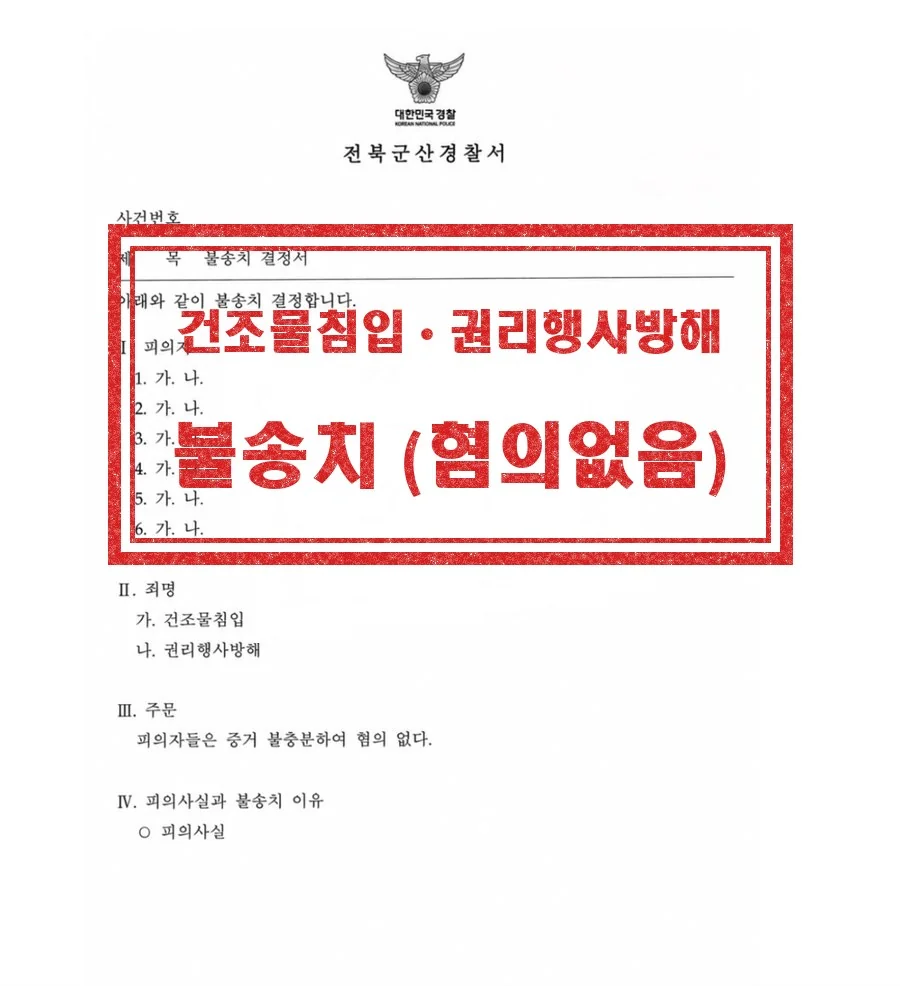
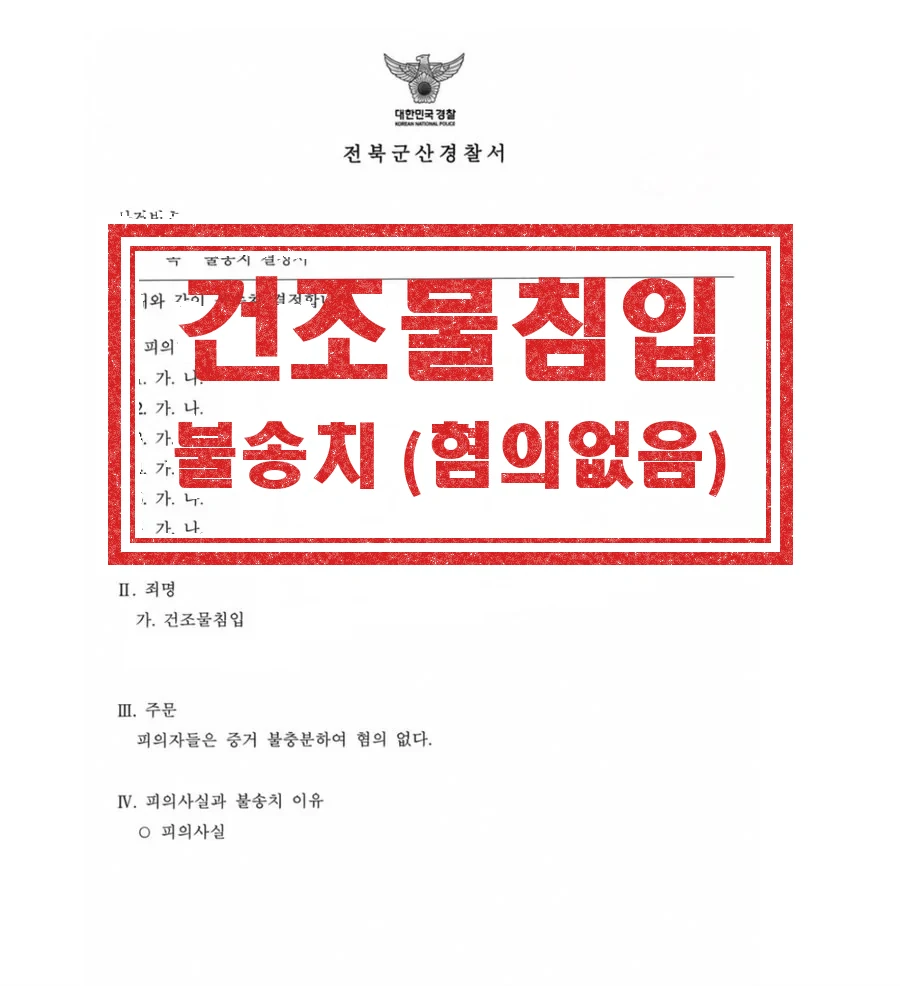
성공사례 case-01을 건조물침입·권리행사방해로 나눔(case-01 건조물침입, case-28 권리행사방해), 각 결정서에서 다른 죄명 가림
Claude-Session: https://claude.ai/code/session_019BpyvRfw1kgAhxY1Ym6REe

Changed region(s): [[0.1867, 0.2434, 0.8089, 0.3955], [0.1244, 0.213, 0.2178, 0.3347], [0.1556, 0.6389, 0.3111, 0.6694]]

diff --git a/results.html b/results.html
@@ -142,14 +142,15 @@
 
         <article class="case" id="case-01" data-cat="criminal">
           <a class="case__fig" href="images/case-01.webp" target="_blank" rel="noopener">
-            <img src="images/case-01-thumb.webp" alt="전북군산경찰서 불송치 결정서 — 건조물침입·권리행사방해 혐의없음" width="1200" height="900" loading="lazy">
+            <img src="images/case-01-thumb.webp" alt="전북군산경찰서 불송치 결정서 — 건조물침입 혐의없음" width="1200" height="900" loading="lazy">
           </a>
           <div class="case__body">
             <div class="case__top"><span class="case__tag">형사 · 군형사</span></div>
-            <h2 class="case__h">건조물침입 · 권리행사방해</h2>
+            <h2 class="case__h">건조물침입</h2>
             <p class="case__d">
-              기업 간 사업장 인수 과정에서 발생한 사안으로, 고소인이 실질적 점유를 하고 있지
-              않았던 점과 건조물침입 또는 권리행사방해의 고의가 없었던 점을 적극 변소했습니다.
+              기업 간 사업장 인수 과정에서 사업장 출입이 문제가 되어 건조물침입으로 고소된
+              사안입니다. 당시 고소인이 해당 건물을 실질적으로 점유·관리하고 있지 않았던 점과
+              출입 경위상 침입의 고의가 없었던 점을 적극 변소했습니다.
             </p>
             <p class="case__r"><span>결과</span> 경찰 불송치</p>
           </div>
@@ -310,6 +311,23 @@
             <p class="case__d">
               유흥주점 업주로부터 선불금을 지급받고 갚지 못한 사안입니다.
               기망행위가 없었던 점, 편취의 고의가 없었던 점을 적극 변소했습니다.
+            </p>
+            <p class="case__r"><span>결과</span> 경찰 불송치</p>
+          </div>
+        </article>
+
+        <article class="case" id="case-28" data-cat="criminal">
+          <a class="case__fig" href="images/case-28.webp" target="_blank" rel="noopener">
+            <img src="images/case-28-thumb.webp" alt="전북군산경찰서 불송치 결정서 — 권리행사방해 혐의없음" width="1200" height="900" loading="lazy">
+          </a>
+          <div class="case__body">
+            <div class="case__top"><span class="case__tag">형사 · 군형사</span></div>
+            <h2 class="case__h">권리행사방해</h2>
+            <p class="case__d">
+              회사 간 영업장을 넘겨받는 과정에서 영업장 안의 물건을 두고 권리행사방해로
+              고소된 사안입니다. 이 죄는 타인이 점유하거나 권리의 목적이 된 자기 물건을
+              취거·은닉·손괴해야 성립하는데, 고소인에게 보호할 만한 실질적 점유가 없었던 점과
+              권리행사를 방해할 고의가 없었던 점을 들어 변소했습니다.
             </p>
             <p class="case__r"><span>결과</span> 경찰 불송치</p>
           </div>

diff --git a/guide-gunsan-muhyeomui.html b/guide-gunsan-muhyeomui.html
@@ -205,14 +205,15 @@
       <div class="cases">
         <article class="case">
           <a class="case__fig" href="results.html#case-01" data-x="case-01.webp">
-            <img src="images/case-01-thumb.webp" alt="전북군산경찰서 불송치 결정서 — 건조물침입·권리행사방해 혐의없음" width="1200" height="900" loading="lazy">
+            <img src="images/case-01-thumb.webp" alt="전북군산경찰서 불송치 결정서 — 건조물침입 혐의없음" width="1200" height="900" loading="lazy">
           </a>
           <div class="case__body">
             <div class="case__top"><span class="case__tag">형사 · 군형사</span></div>
-            <h3 class="case__h">건조물침입 · 권리행사방해</h3>
+            <h3 class="case__h">건조물침입</h3>
             <p class="case__d">
-              기업 간 사업장 인수 과정에서 발생한 사안으로, 고소인이 실질적 점유를 하고 있지
-              않았던 점과 건조물침입 또는 권리행사방해의 고의가 없었던 점을 적극 변소했습니다.
+              기업 간 사업장 인수 과정에서 사업장 출입이 문제가 되어 건조물침입으로 고소된
+              사안입니다. 당시 고소인이 해당 건물을 실질적으로 점유·관리하고 있지 않았던 점과
+              출입 경위상 침입의 고의가 없었던 점을 적극 변소했습니다.
             </p>
             <p class="case__r"><span>결과</span> 경찰 불송치</p>
           </div>

diff --git a/tools/restamp_all.py b/tools/restamp_all.py
@@ -2,7 +2,7 @@ import subprocess, os, sys
 from PIL import Image, ImageDraw
 os.chdir(os.path.dirname(os.path.dirname(os.path.abspath(__file__))))
 LABELS={
- '01':('건조물침입·권리행사방해','불송치 (혐의없음)'),'02':('허위사실적시 명예훼손','불송치 (혐의없음)'),
+ '01':('건조물침입','불송치 (혐의없음)'),'28':('권리행사방해','불송치 (혐의없음)'),'02':('허위사실적시 명예훼손','불송치 (혐의없음)'),
  '03':('사문서위조 및 동행사','불송치 (혐의없음)'),'04':('업무방해','불송치 (혐의없음)'),
  '05':('직무수행군인등 상해','기소유예'),'06':('강제추행 고소대리','경찰 송치'),'07':('체포 고소대리','경찰 송치'),
  '08':('보이스피싱 구속영장 청구','구속영장 기각'),'09':('사기','불송치 (혐의없음)'),
